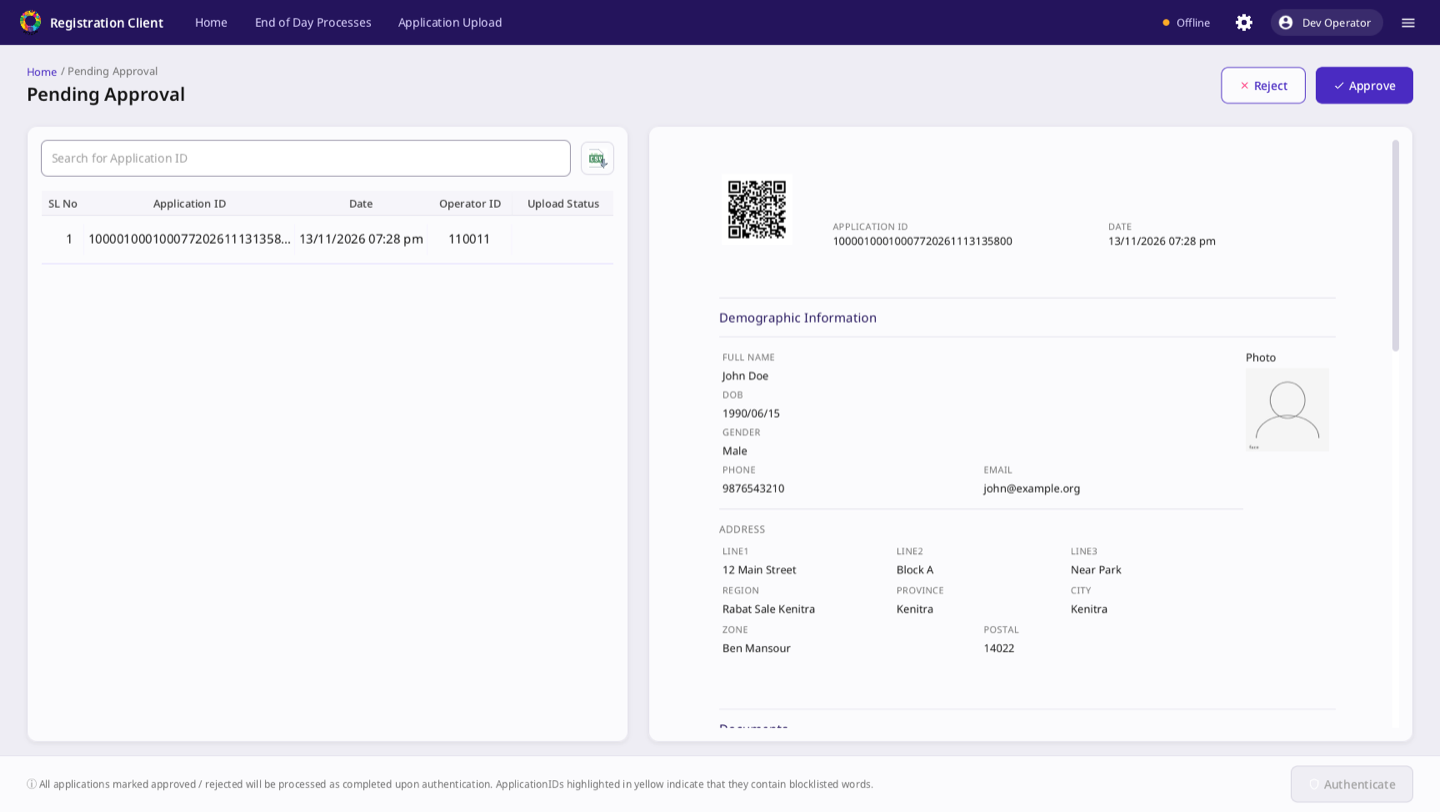
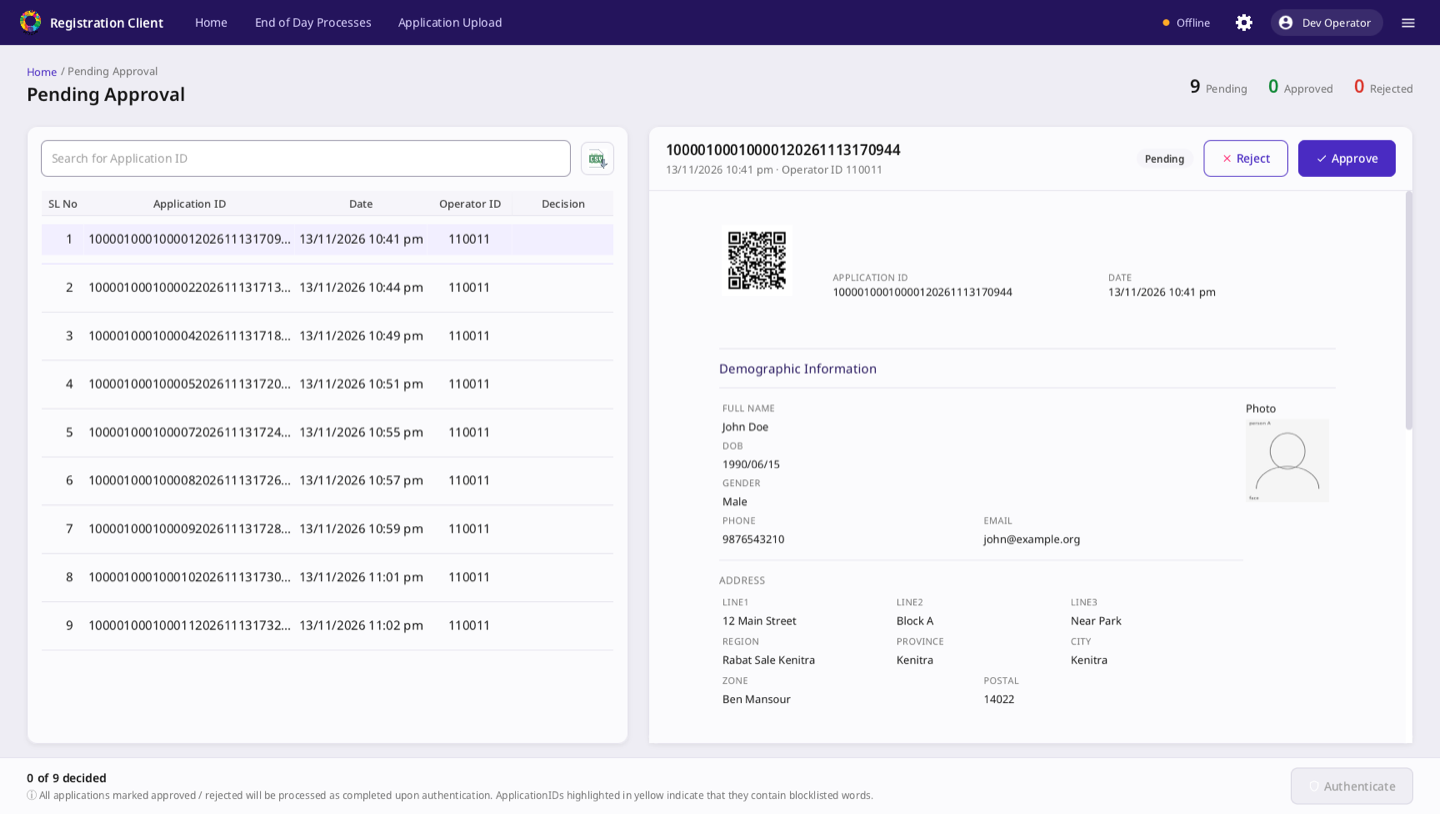
Docs: UI refresh notes, verified variations and refreshed screenshots
- Screens table updated (step-rail wizard, login, approval, Update UIN,
  onboarding, multi-language and right-to-left forms).
- New sections: verified variations (process / UI specs, data-entry
  languages, biometric exceptions, biometric login, end of day), behaviour
  fixes for bugs found on develop, deployment notes (transliteration
  plugin, Sinhala, language bundles, macOS arm64 OpenCV, RTL digits).
- Screenshots refreshed from a full replay of the standard flows; new
  variation screenshots.

diff --git a/docs/ui-refresh/README.md b/docs/ui-refresh/README.md
@@ -27,7 +27,7 @@ All visual values are tokens on `.root` in
 | Spacing | 4px grid (8 / 12 / 16 / 24 / 32); 32px page margins, 24px gutters |
 | Radius | 8 for controls, 12 for cards, 999 for chips |
 | Elevation | Soft key + ambient shadows (levels 1-2) |
-| Type and controls | 15px base, 44px inputs and buttons (UX4G minimum target); fields in a 484px slot so rows form a 3-column grid; 104px date parts; fixed-width chips |
+| Type and controls | 15px base, 44px inputs and buttons (UX4G minimum target); in the 992px wizard card, 296px field slots (252px input + 44px keyboard, or a dropdown) give three per row and multi-language groups (452px) two per row; 72px date parts; 120px chips |
 
 ## Screens redesigned
 
@@ -35,27 +35,78 @@ All visual values are tokens on `.root` in
 | --- | --- |
 | App bar (`Header.fxml`) | Brand (logo + product name) and primary navigation (Home, End of day for supervisors, Application upload, each behind the existing page-navigation confirmation) on the left; online status, settings, the signed-in user and the user menu on the right |
 | Home (`RegistrationOfficerPacketLayout.fxml`) | Task dashboard on a centred 1280px column: welcome line with centre and machine, last-sync card with Sync now, items needing attention (live counts, supervisors only), registration processes as cards with a one-line description (New registration as the primary card), end-of-day and operational tasks as list cards |
-| Registration flow (`GenericRegistrationLayout.fxml`) | Page title above the steps, the steps in one full-width card with underline tabs, an action bar with the status message and primary action |
-| Form fields (code-built) | Labels above inputs (6px gap); hidden validation and transliteration helpers no longer reserve space; chip groups labelled like other fields; 24/16px gaps |
-| Update UIN | "Details to update" are selectable option cards (rounded-square checkbox, clear selected state) instead of round pills |
+| Login (`RegistrationLogin.fxml`) | Even split: brand panel (logo, product name and tagline, registration centre and machine read from the local DB) and sign-in panel (heading, subtitle, labelled 48px fields). Multi-factor login shows "Step n of m" for the configured factors |
+| Registration wizard (`GenericRegistrationLayout.fxml`) | Step rail (current, completed, skipped by a process rule, error; "Step n of m" with progress) beside a fixed-width content card; the TabPane stays as the step model with its headers hidden. Works for any number of process-spec screens |
+| Form fields (code-built) | Labels above inputs; hidden helpers take no space; chip groups labelled like other fields. With several data-entry languages a text field is one grouped control with a row per language (tag in the language's own name, field name in that language as placeholder, keyboard); other field types show the field name in the first language with the other languages on a muted line |
+| Right-to-left | Arabic (or any configured RTL language) as the main language mirrors the whole screen; an RTL row inside an LTR form types RTL while the rows stay aligned |
+| Pending approval | Decision counts in the page header; review card header with the selected application, its decision and Approve / Reject; "n of m decided" in the action bar |
+| Update UIN | Page header with the process name from the spec; labelled UIN field; option cards in process-spec order |
+| Operator onboarding (`Biometrics.fxml`) | Page template: breadcrumb and title, one card with the modality rail, capture panel and quality bar, exceptions column; Back / Save in the action bar |
+| Biometrics capture | Modality rail beside the capture panel; compact layout (`fieldLayout: compact`) captures in a popup |
 | Server HTML templates | Acknowledgement, preview, dashboard and consent are themed by a client-side layer (`template-theme.css`, applied as the WebView user stylesheet through `TemplateTheme.apply`). Template data is not modified, so the theme survives every sync |
-| Page template (Pending approval, Re-registration, Application upload, Acknowledgement, Settings) | One structure everywhere: page header (breadcrumb, title, actions on the right) on the 32px page margin, content in cards on the canvas, one action bar at the bottom |
-| Dashboard | The server template's floated boxes are laid out as a grid by the template theme: a full-width row of stat tiles, then Users and Sync activities as two equal cards; the WebView fills the page |
-| Biometrics capture | Fixed 152px modality rail with the capture panel next to it (no dead gap); heading aligned to the panel |
-| Operator authentication | Pane titles centred on the same axis as the credential fields |
-| Login (`RegistrationLogin.fxml`) | Split layout: a brand panel (illustration under an indigo scrim, MOSIP logo, product name) and a sign-in panel with the form vertically centred. Cards collapse when hidden, and the language picker collapses when unused |
-| Everything else | Picks up the tokens: tables, dialogs, menus, settings, biometrics, onboarding, upload, re-registration |
+| Page template (Pending approval, Re-registration, Application upload, Acknowledgement, Settings, Update UIN, Onboarding) | One structure everywhere: page header (breadcrumb, title, actions), content in cards on the canvas, one action bar at the bottom |
+| Everything else | Picks up the tokens: tables, dialogs, menus, settings, upload, re-registration |
 
-### Code touched (UI construction only)
+### Code touched
 
-- `PacketHandlerController`: process cards in a 4-column grid.
-- `GenericController`: form margins and gaps.
-- `ButtonFxControl`: label above the chips.
-- `FxControl.collapseWhenHidden` (new helper), used by `TextFieldFxControl` (plus its `inputGroup` style hook) and `DropDownFxControl`.
-- `GenericController`: Application ID label above its input; inline `white` styles now use the surface token.
-- `DOB*FxControl`: `dobFieldGroup` style hook.
-- `BiometricFxControl` / `BiometricsController`: tile spacing.
+UI construction, plus the behaviour fixes listed below. New FXML nodes are optional `@FXML` fields; existing
+`fx:id`s, handlers and public methods are unchanged (the only removed nodes were unreferenced: two app-bar
+separators, the empty News placeholder on Home, three unused tracker nodes in `Biometrics.fxml`).
+
+- `GenericController`: step rail; wizard card sized by anchors; the Continue path reports what blocks a step.
+- `PacketHandlerController`, `HeaderController`, `LoginController`, `RegistrationApprovalController`, `UpdateUINController`, `BiometricsController`: data for the new page elements.
+- `FxControl` (`collapseWhenHidden`, `primaryLabel`, `secondaryLabels`, `getInvalidReason`), `TextFieldFxControl` (language rows), `DropDownFxControl`, `ButtonFxControl`, `DOB*FxControl`, `DocumentFxControl`, `BiometricFxControl`.
+- `BaseController`: `getLabelOrDefault`, `setTokenizedText`.
 - `ClientPreLoader`: themed startup window.
+
+## Verified variations
+
+Each was run through the real UI to an acknowledgement and a packet in the local DB, with offline data
+derived from the core MOSIP sample data (`mosip/mosip-data`).
+
+| Area | Variations |
+| --- | --- |
+| Process / UI spec | Core `newProcess`, `updateProcess`, `lostProcess`, `bioCorrectionProcess`; 7-screen spec with long screen names and a screen hidden by an MVEL rule; pre-registration fetch on a later screen; biometrics none, partial (4 fingers + face), face only, compact layout |
+| Data-entry languages | English only; English + Arabic; Arabic (main, whole screen RTL) + English; English + Sinhala + Tamil; English + Arabic + Sinhala + Tamil, with transliteration enabled on name and address fields |
+| Biometric exceptions | Two fingers marked (exception photo required, reviewer authentication by a second supervisor); marked then unmarked (no photo, no reviewer); all fingers and irises marked (scan disabled for those modalities, face + photo) |
+| Biometric login | Fingerprint (left / right slab, thumbs), iris, face, fingerprint + iris + face, face + password; wrong person; no device; modality not enrolled |
+| End of day | Approve, reject with reason, supervisor authentication, decisions persisted |
+
+Biometric devices and the matcher were exercised with a dev-only SBI stand-in (outside this repo) and
+MOSIP's mock SDK; everything above the device layer is the real client.
+
+## Behaviour fixes (bugs found on `develop` while testing)
+
+- **Compact biometrics crashed** (`retryBox` NPE): the popup FXML was loaded into a second, prototype-scoped
+  controller. It now binds to the calling controller; the missing `sdkQualityText` label was added to the
+  popup; the popup opens only when the operator picks a modality.
+- **Capture recovery**: after a stream failure or missing device the biometrics pane stayed disabled with
+  auto-logout off. **Streamer**: at end of stream the reader spun forever on `read() == -1`.
+- **Biometric login**: a capture failure was reported as "match not found" and counted as a failed login
+  (towards the lock); an operator without templates for the required modality was told "match not found".
+  Both now say what happened and are not counted. Unexpected task failures no longer leave the pane disabled.
+- **Transliteration cascade**: text written by transliteration triggered the other fields' transliteration,
+  so with three or more languages values were overwritten by transliterations of transliterations. Only
+  operator input is transliterated now.
+- **Blocked steps without a reason**: Continue on an invalid step only marked the step red (upstream TODO for
+  the exception photo). The footer now names the field or the reason; the exception photo tile is flagged
+  until captured.
+- **Update UIN** threw an NPE on load (`backBtn` referenced but missing in the FXML).
+
+## Deployment notes
+
+- **Transliteration needs a plugin.** The client looks up any Spring `Transliteration` bean; none is shipped
+  in this build, so transliteration silently does nothing until one is added to `lib`. MOSIP's
+  `kernel-transliteration-icu4j` (ICU 73) handles English and Arabic in both directions and English to
+  Tamil (letter by letter; digits become Tamil numerals). **ICU has no Latin to Sinhala transliterator**, so
+  with the stock plugin Sinhala must be typed; a Sinhala-capable `Transliteration` implementation can be
+  plugged in.
+- **Each data-entry language needs client bundles** (`labels_<lang>` / `messages_<lang>`); without them the
+  language is shown but cannot be selected. This build ships en, fr and ar.
+- **macOS on Apple Silicon (dev only):** OpenCV has no macOS-arm64 build, so preview and acknowledgement
+  cannot decode JPEG2000 biometric images there; production platforms are unaffected.
+- JavaFX misplaces spaces next to digits inside right-to-left text; the new texts that mix the two (step
+  progress, decision summary) are laid out as word tokens to avoid it.
 
 ## macOS / Apple Silicon fix
 
@@ -101,14 +152,8 @@ from `mosip/mosip-data`. A dev-only harness, kept outside this repo, seeded that
   client theme layer restyles them; printed or stored copies keep the template's own styling unless the
   templates are also updated on the server. The `$keyList.get("activityValue")` text on the Dashboard is an
   unresolved variable in MOSIP's sample template data.
-- **Not yet redesigned:** the operator onboarding biometrics screen (`Biometrics.fxml` / `BiometricsController`) keeps its original arrangement inside the themed card. It is positioned partly in code and needs its own pass.
-- **Pre-existing on `develop`, not changed here:** `UpdateUINController` wires a hover listener to
-  `backBtn`, but `UpdateUIN.fxml` has no such element. The NPE is caught and logged, and the screen still
-  works.
-- **Verification:** the full flow was replayed on macOS with offline mock data after every change. That
-  covers login, home, new registration (consent, demographics, documents, scan, biometrics, preview,
-  operator auth, packet created, acknowledgement), approval with supervisor auth, re-registration, upload,
-  dashboard, update UIN, lost UIN, biometric correction, settings and onboarding.
+- On a partial biometrics spec, attributes not configured for a displayed modality are recorded as
+  exceptions (long-standing `develop` behaviour), so the exception photo and reviewer authentication apply.
 - `application-pink.css` (the alternate theme) is untouched.
 
 ## Screenshots
@@ -129,6 +174,20 @@ from `mosip/mosip-data`. A dev-only harness, kept outside this repo, seeded that
 | ![](screenshots/23-settings.png) Settings | ![](screenshots/24-settings-scheduled-jobs.png) Scheduled jobs |
 | ![](screenshots/25-settings-global-config.png) Global config | ![](screenshots/26-settings-devices.png) Devices |
 | ![](screenshots/27-operator-onboarding.png) Operator onboarding | |
+
+### Variations
+
+| | |
+| --- | --- |
+| ![](screenshots/variations/spec-7-screens-long-labels.png) 7-screen spec, long step names | ![](screenshots/variations/spec-compact-biometrics-skipped-step.png) Compact biometrics; step skipped by a rule |
+| ![](screenshots/variations/spec-compact-biometrics-popup.png) Compact biometrics: capture popup | ![](screenshots/variations/spec-no-biometrics-preview.png) Spec without biometrics |
+| ![](screenshots/variations/spec-partial-biometrics.png) Partial biometrics (4 fingers + face) | ![](screenshots/variations/approval-decisions.png) Pending approval: decisions |
+| ![](screenshots/variations/lang-en-ar.png) English + Arabic | ![](screenshots/variations/lang-ar-main-rtl.png) Arabic main: whole screen RTL |
+| ![](screenshots/variations/lang-ar-main-rtl-preview.png) Arabic main: preview | ![](screenshots/variations/lang-en-si-ta.png) English + Sinhala + Tamil |
+| ![](screenshots/variations/lang-en-ar-si-ta.png) Four languages | ![](screenshots/variations/exceptions-two-fingers-marked.png) Exceptions: two fingers marked |
+| ![](screenshots/variations/exceptions-photo-required.png) Exceptions: photo required | ![](screenshots/variations/exceptions-reviewer-authentication.png) Exceptions: reviewer authentication |
+| ![](screenshots/variations/exceptions-all-but-face.png) Exceptions: all but face | ![](screenshots/variations/login-multifactor-iris-step.png) Multi-factor login, step 2 |
+| ![](screenshots/variations/login-no-device.png) Biometric login: no device | ![](screenshots/variations/login-modality-not-enrolled.png) Biometric login: modality not enrolled |
 
 ### Before (original `develop`, for reference)
 
